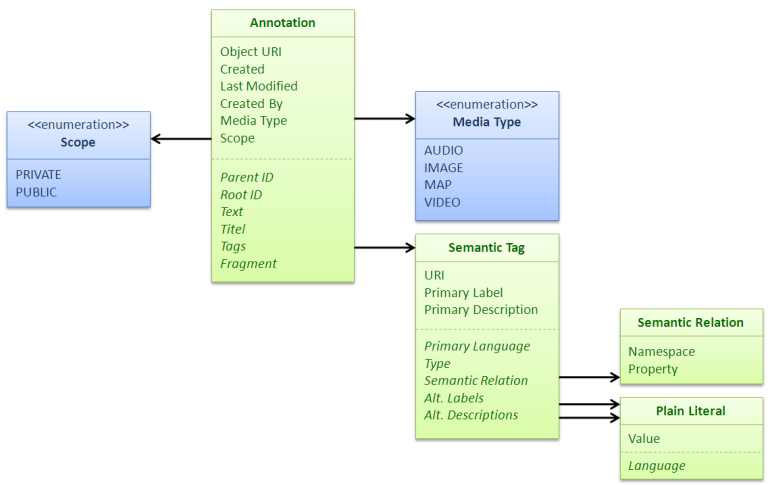
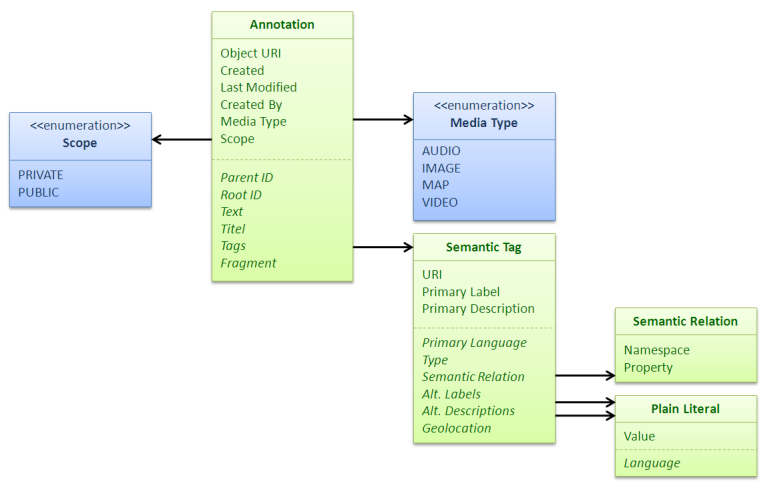
Refactoring

Changed region(s): [[0.0, 0.0, 0.9974, 1.0]]

diff --git a/src/main/java/at/ait/dme/yuma/server/model/tag/geo/BoundingBox.java b/src/main/java/at/ait/dme/yuma/server/model/tag/geo/BoundingBox.java
@@ -1,0 +1,5 @@
+package at.ait.dme.yuma.server.model.tag.geo;
+
+public class BoundingBox {
+
+}

diff --git a/src/main/java/at/ait/dme/yuma/server/model/tag/geo/GeoLocation.java b/src/main/java/at/ait/dme/yuma/server/model/tag/geo/GeoLocation.java
@@ -1,0 +1,5 @@
+package at.ait.dme.yuma.server.model.tag.geo;
+
+public class GeoLocation {
+
+}

diff --git a/src/main/java/at/ait/dme/yuma/server/model/tag/geo/Polygon.java b/src/main/java/at/ait/dme/yuma/server/model/tag/geo/Polygon.java
@@ -1,0 +1,5 @@
+package at.ait.dme.yuma.server.model.tag.geo;
+
+public class Polygon {
+
+}

diff --git a/src/main/java/at/ait/dme/yuma/server/model/tag/geo/Point.java b/src/main/java/at/ait/dme/yuma/server/model/tag/geo/Point.java
@@ -1,0 +1,5 @@
+package at.ait.dme.yuma.server.model.tag.geo;
+
+public class Point {
+
+}

diff --git a/src/main/java/at/ait/dme/yuma/server/model/tag/geo/Line.java b/src/main/java/at/ait/dme/yuma/server/model/tag/geo/Line.java
@@ -1,0 +1,5 @@
+package at.ait.dme.yuma.server.model.tag.geo;
+
+public class Line {
+
+}
